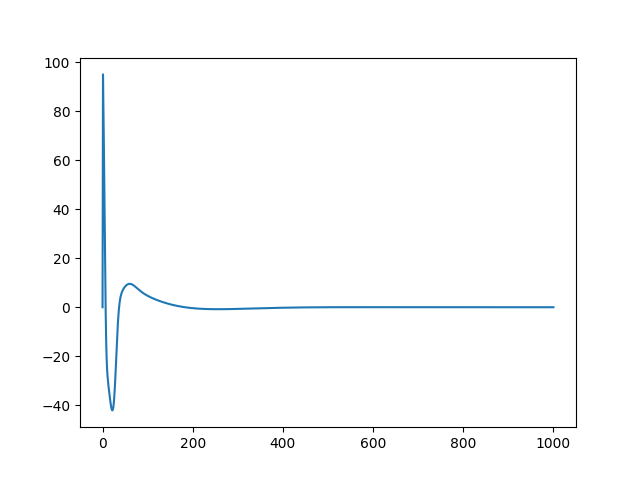
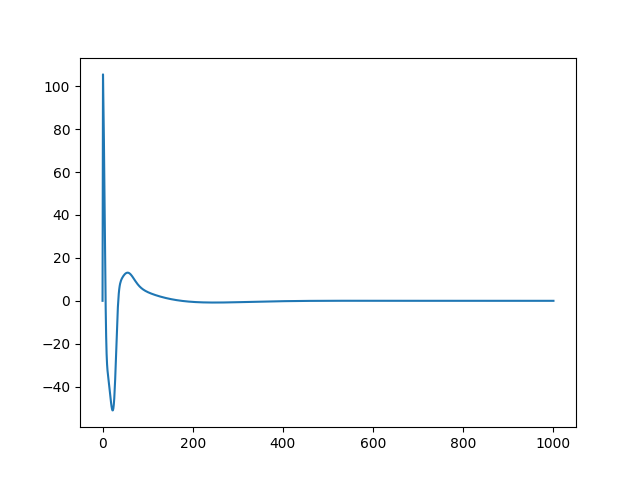
added lqr control and GUROBI based solver

diff --git a/main.py b/main.py
@@ -73,14 +73,15 @@ print(f"Rank of Controllability Matrix:",np.linalg.matrix_rank(ct.ctrb(A,B)))
 
 Q = sp.linalg.block_diag(100,100,100,1,1,1)
 
-R = 1
+R = 10
 
-P = np.eye(A.shape[0])
+#solution to dare
+P ,_,_ = ct.dare(A, B,Q,R)
 
 T = 10
 time = np.arange(0, T, dt)
 
-y = np.array([0, np.pi/20, -np.pi/20, 0, 0, 0])
+y = np.array([0, math.radians(10), -math.radians(10), 0, 0, 0])
 states = [y]
 # print(y.shape)
 
@@ -88,16 +89,18 @@ states = [y]
 
 theta_const = math.radians(15)
 x_const = 3
+u_const = 200
+
 
 x_ub = np.array([x_const, theta_const, theta_const, float('inf'),float('inf'),float('inf')])
 x_lb = np.array([-x_const,-theta_const,-theta_const,float('-inf'),float('-inf'),float('-inf')])
-u_ub = float('inf') 
-u_lb = float('-inf') 
+u_ub = u_const
+u_lb = -u_const
 
 control_inputs = [0]
 
 #MPC horizon
-N = (T/dt)*0.20
+N = (T/dt)*0.25
 N = int(N)  
 print(N)
 # Simulation loop
@@ -109,6 +112,7 @@ for t in time:
     print(f"Position:",y[0])
     print(f"Theta1:",y[1])
     print(f"Theta2:",y[2])
+    print(f'Force:',u[0][0])
     states.append(y)
 
 states = np.array(states)

diff --git a/mpc_solver.py b/mpc_solver.py
@@ -23,8 +23,8 @@ def mpc_solve(A, B, Q, R, P, x0, N, x_lb, x_ub, u_lb, u_ub):
     constraints += [x_bar[0, :] == x0]
     for t in range(N):
         constraints += [x_bar[t+1, :] == A @ x_bar[t, :] + B @ u_bar[t, :]]
-        # constraints += [x_bar[t+1, :] <= x_ub , x_bar[t+1,:] >= x_lb]
-        # constraints += [u_lb <= u_bar[t, :], u_bar[t, :] <= u_ub] #gr
+        constraints += [x_bar[t+1, :] <= x_ub , x_bar[t+1,:] >= x_lb]
+        constraints += [u_lb <= u_bar[t, :], u_bar[t, :] <= u_ub] 
 
         cost += 0.5 * cp.quad_form(x_bar[t, :], Q) + 0.5 * cp.quad_form(u_bar[t, :], R*np.eye(u_bar[t,:].shape[0]))
     

diff --git a/lqr_control.py b/lqr_control.py
@@ -70,7 +70,7 @@ K,S,E = ct.dlqr(A,B,Q,R)
 T = 10
 time = np.arange(0, T, dt)
 
-y = np.array([0, np.pi/20, -np.pi/20, 0, 0, 0])
+y = np.array([0, math.radians(10), -math.radians(10), 0, 0, 0])
 states = [y]
 control_inputs = [0]
 
